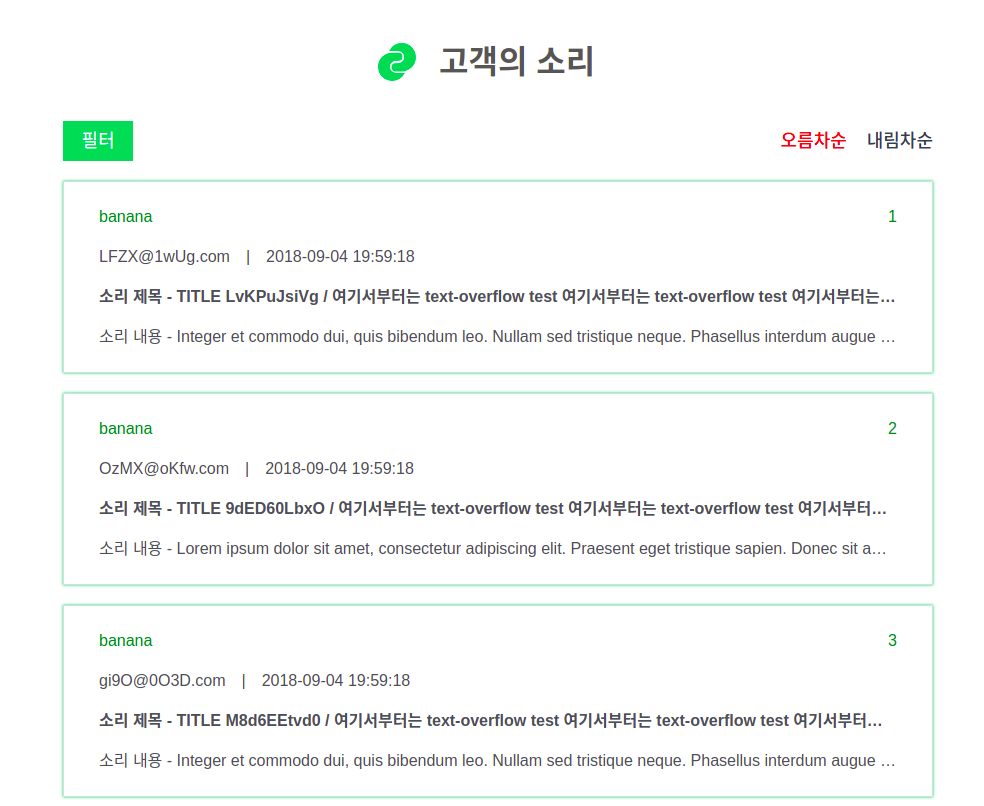
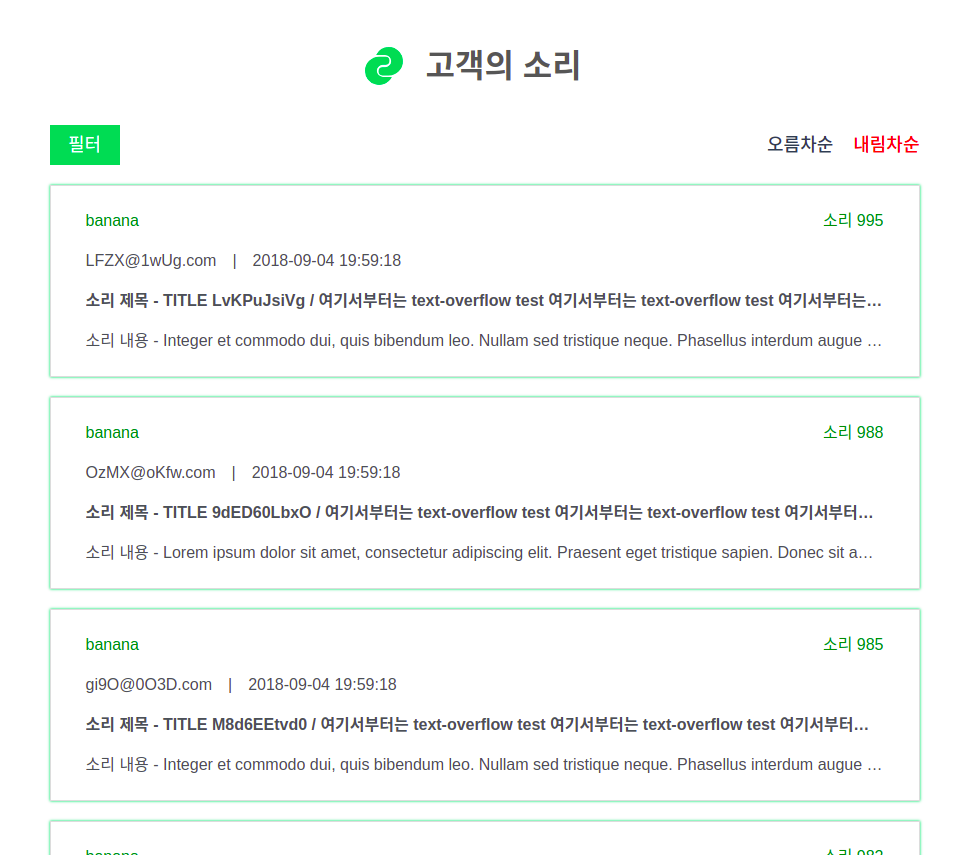
fix(ListFilter): 필터 required 추가

Changed region(s): [[0.031, 0.1241, 0.9598, 1.0], [0.3715, 0.062, 0.6192, 0.1241]]

diff --git a/src/components/List.vue b/src/components/List.vue
@@ -1,6 +1,6 @@
 <template>
     <div id="listWrap">
-        <div class="list-item" v-for="(item, index) in voc" :key="index">
+        <div class="list-item" v-for="(item, index) in listObj.voc" :key="index">
             <div class="list-group">
                 <article>
                     <ol>
@@ -10,7 +10,7 @@
                                     <h5 class="mb-4 color" v-show="item.category_no == 1">apple</h5>
                                     <h5 class="mb-4 color" v-show="item.category_no == 2">banana</h5>
                                     <h5 class="mb-4 color" v-show="item.category_no == 3">coconut</h5>
-                                    <small class="color">{{index + 1 }}</small>
+                                    <small class="color">소리 {{item.no}}</small>
                                 </div>
                                 <div class="d-flex w-100 justify-content-start">
                                     <p class="mb-4">{{item.email}}</p>
@@ -32,15 +32,15 @@
                             <span>Sponsored</span>
                         </div>
                         <div class="ad-body">
-             `               <div class="ad-image">
-                                <img v-bind:alt="getAlt(index)" v-bind:src="getImage(index)"/>
+                            <div class="ad-image">
+                                <img v-bind:alt="getAlt(index, listObj.ads)" v-bind:src="getImage(index, listObj.ads)"/>
                             </div>
                             <div class="ad-detail">
                                 <div class="ad-title">
-                                    <h3>{{getValue(index, 'title')}} / 여기서부터는 text-overflow test 여기서부터는 text-overflow test 여기서부터는 text-overflow test </h3>
+                                    <h3>{{getValue(index, 'title', listObj.ads)}} / 여기서부터는 text-overflow test 여기서부터는 text-overflow test 여기서부터는 text-overflow test </h3>
                                 </div>
                                 <div class="ad-contents">
-                                    <p>{{getValue(index, 'contents')}}</p>
+                                    <p>{{getValue(index, 'contents', listObj.ads)}}</p>
                                 </div>
                             </div>
                         </div>
@@ -63,6 +63,11 @@
             }
         },
         props: ['voc','ads'],
+        computed: {
+            listObj () {
+                return {voc: this.voc, ads: this.ads};
+            },
+        },
         created() {
         },
         mounted() {
@@ -73,19 +78,19 @@
                     return true;
                 }
             },
-            getImage(idx) {
-                const path = IMAGE_PATH + this.ads[(idx + 1) / this.n - 1]['img'];
+            getImage(idx, ads) {
+                const path = IMAGE_PATH + ads[(idx + 1) / this.n - 1]['img'];
                 if (path) return path
             },
-            getAlt(idx) {
+            getAlt(idx, ads) {
                 if ((idx + 1) % this.n === 0) {
-                    const alt = "ad_" + this.ads[(idx + 1) / this.n - 1]['title'];
+                    const alt = "ad_" + ads[(idx + 1) / this.n - 1]['title'];
                     if (alt) return alt;
                 }
             },
-            getValue(idx, key) {
+            getValue(idx, key, ads) {
                 if ((idx + 1) % this.n === 0) {
-                    const value = this.ads[(idx + 1) / this.n - 1][key];
+                    const value = ads[(idx + 1) / this.n - 1][key];
                     if (value) return value;
                 }
             },

diff --git a/src/components/ListFilter.vue b/src/components/ListFilter.vue
@@ -18,6 +18,8 @@
                     </div>
                     <br>
                     <span class="checked">선택됨: {{checkedNames}} </span>
+                    <br>
+                    <span>{{required}}</span>
                 </div>
             </div>
             <span slot="footer" @click="closeFilter" class="exit">
@@ -34,6 +36,7 @@ export default {
     data() {
         return {
             showModal: false,
+            required: '',
         }
     },
     computed: {
@@ -52,8 +55,13 @@ export default {
             this.showModal = !this.showModal;
         },
         closeFilter() {
-            this.showModal = !this.showModal;
-            this.$emit('updateList', this.checkedNo)
+            if (this.checkedNames.length > 0) {
+                this.required = '';
+                this.showModal = !this.showModal;
+                this.$emit('updateList', this.checkedNo)
+            } else {
+                this.required = '카테고리를 선택해주세요.';
+            }
         },
         handleOrder(e) {
             const c = e.target.className;

diff --git a/src/App.vue b/src/App.vue
@@ -70,6 +70,17 @@ export default {
         for (let i = 0; i < request.length; i++) {
           this.ads.push(request[i]);
         }
+      } else {
+        const none = {
+          contents: '',
+          created_at: '',
+          img: '',
+          no: '',
+          title: '',
+          updated_at: ''
+        };
+        this.ads.push(none);
+        this.ads.push(none);
       }
     },
     async infiniteHandler($state) {
@@ -77,7 +88,7 @@ export default {
       await axios.get(LIST, {
         params: {
           page: this.page,
-          order: this.asc ? 'asc' : 'desc',
+          ord: this.asc ? 'asc' : 'desc',
           category: this.category_no,
         },
       }).then(({ data }) => {

diff --git a/README.md b/README.md
@@ -3,25 +3,24 @@
 
 ![main](./main.png)
 
-### 필터
+----------------------------------------
 
-완료
+### 필터 - 완료
 
-### 정렬
-
-클릭시 리스트 정렬 미완
+### 정렬 - 완료
 
 ### 기본 콘텐츠
 
-완료
+이슈
+
+- 콘텐츠 스크롤시 추가적으로 랜더링할 때 warn 경고 발생 ( list.vue에서 광고 관련 문제 )
 
 ### 광고 콘텐츠
 
-구현하였으나 이슈 발생 
+이슈
 
 - Vue-Infinite-Loading @change를 통해 리셋하지 못해 deprecated 된 기능을 이용하여 구현
 - 광고리스트 API 요청 결과 총 데이터 30개로 추정됨 이때문인지 카테고리를 50개까지밖에 못불러옴
+  대신 빈데이터를 넣어봤으나 아직까지 미해결
 
-### 모달
-
-완료
+### 모달 - 완료
